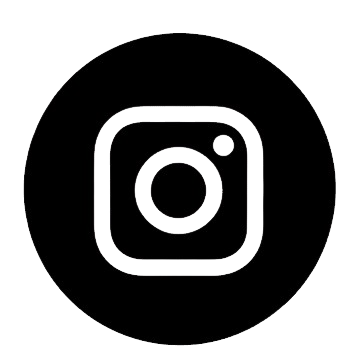
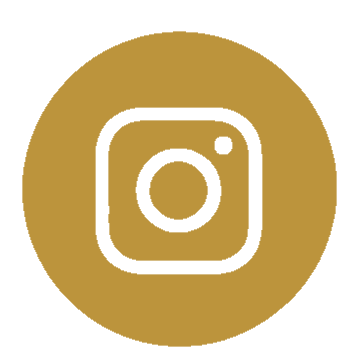
adição do icone instagram da cor dourado

diff --git a/src/app/componentes/equipe/equipe.component.html b/src/app/componentes/equipe/equipe.component.html
@@ -20,7 +20,7 @@
             <img src="/assets/esdras.png" alt="Mario Geovani">
         <h3>Esdras Coutinho</h3>
         <p>Ex-aluno e professor do Colégio Ideal 
-            há 8 anos</p>
+            há 10 anos</p>
             <img src="/assets/arnor.png" alt="Mario Geovani">
         <h3>Arnor Tavares</h3>
         <p>Professor do Colégio Ideal 
